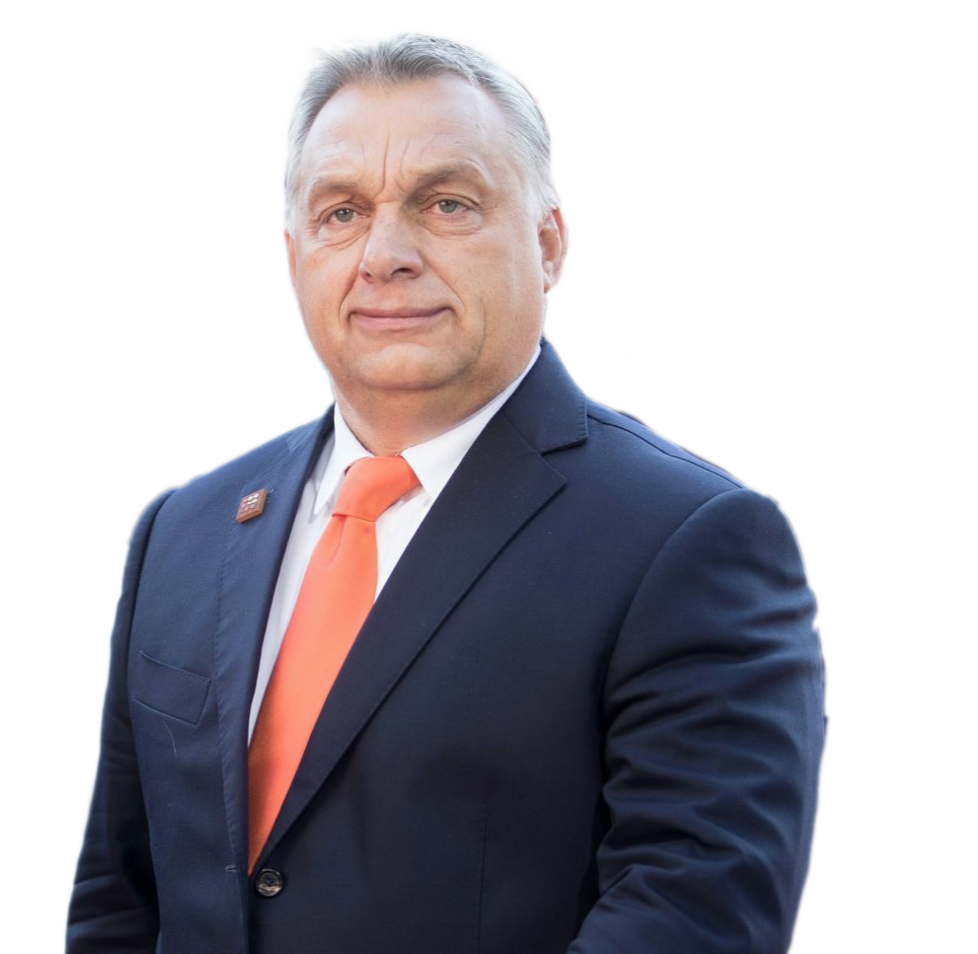
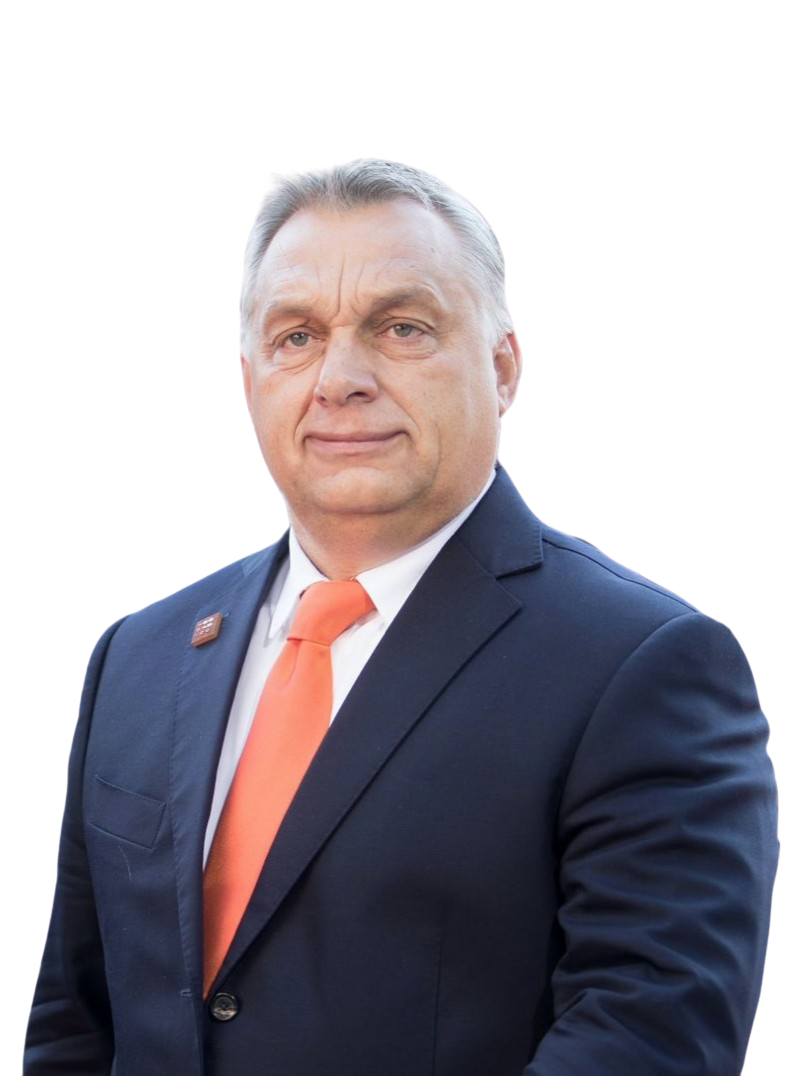
orbán odébb tolva

diff --git a/css/styles.css b/css/styles.css
@@ -4261,7 +4261,7 @@ textarea.form-control-lg {
 }
 
 .card-img-overlay {
-  position: absolute;
+  position:  relative;
   top: 0;
   right: 0;
   bottom: 0;
